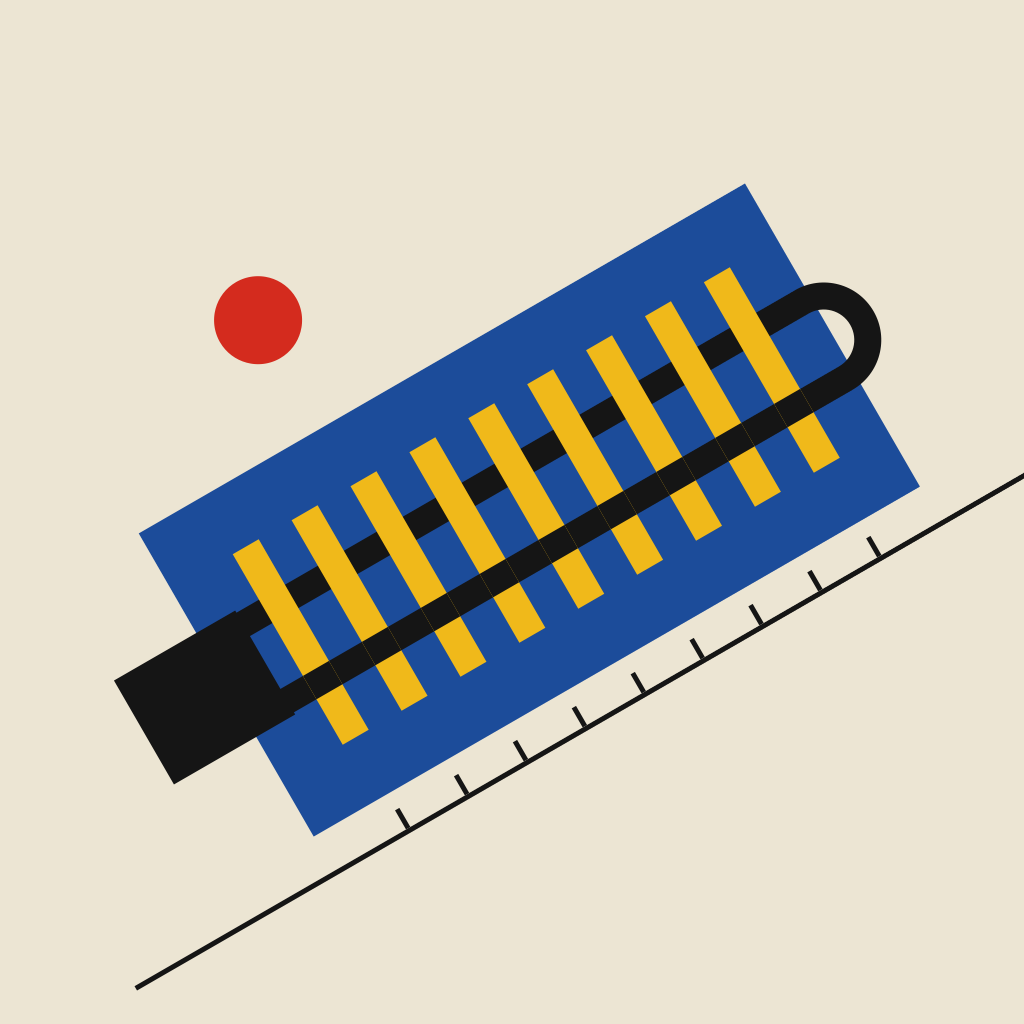
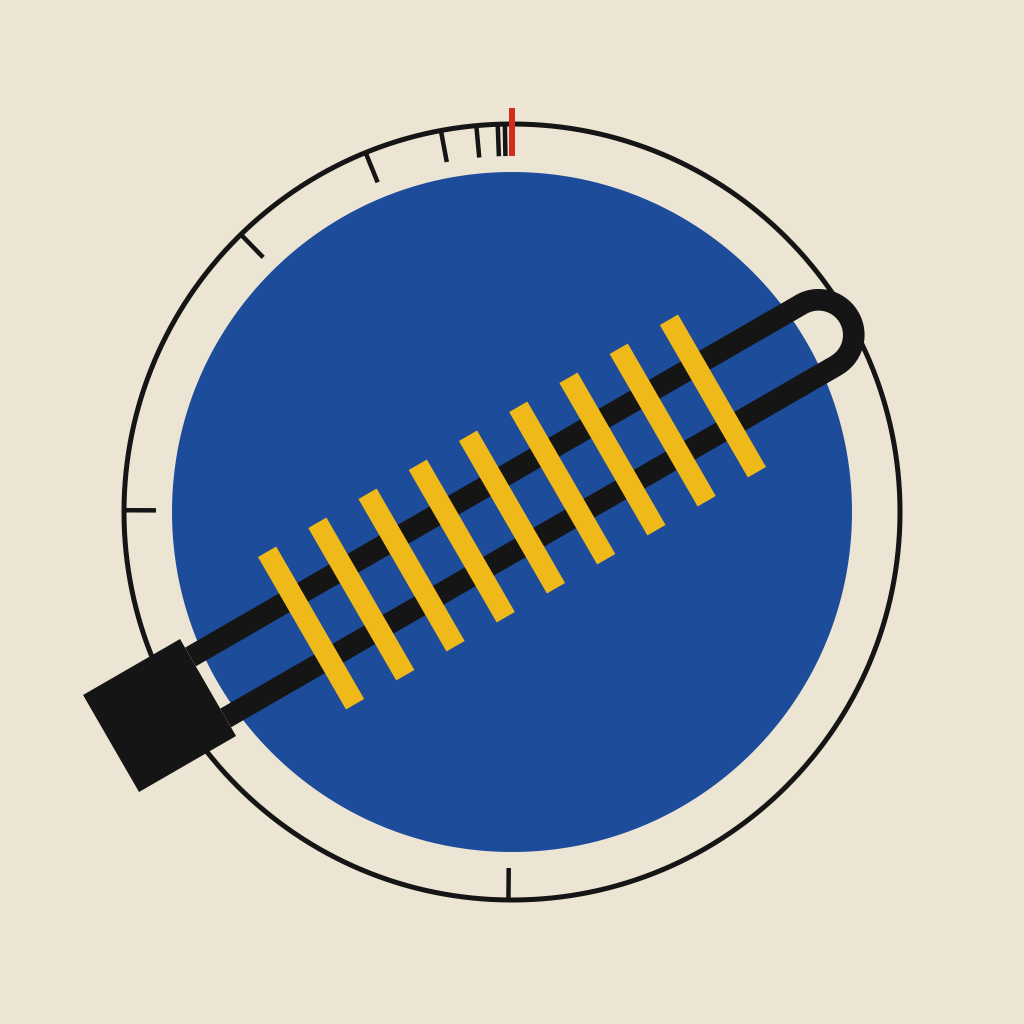
Achievement pictures: The Shortest Way and All Nine Back On, designed from zero
The Shortest Way is now the measure (nine rings, each as wide as its ring's moves, in a yellow wedge) and All Nine
Back On the full circle (a blue disc in a ruled circle, the nine rings on the sword as yellow bars), as the user
chose them. Their drawing comes in as it was designed, beside Bauhaus.swift, and the canvas gets back the helpers it
needs. The command's files match the chosen PNGs byte for byte.

diff --git a/StoreTools/Sources/AchievementPictures/ShortestWayAndBackOn.swift b/StoreTools/Sources/AchievementPictures/ShortestWayAndBackOn.swift
@@ -1,0 +1,176 @@
+import CoreGraphics
+import Foundation
+
+// The Shortest Way and All Nine Back On, designed from zero in the art of the Bauhaus and Constructivism, after the
+// two pictures that stay (All Nine Off and The Far End, in Bauhaus.swift): their paper, their colours, the way the
+// sword is drawn and its 30 degree rise. Drawn on the canvas itself, along an axis, not in Bauhaus.swift's frame.
+
+// MARK: - What the two pictures share
+
+/// A straight axis on the canvas: `t` runs along it and `s` across it. For an axis that rises to the right,
+/// a positive `s` is below it.
+struct Axis {
+    var origin: CGPoint
+    var degrees: CGFloat
+    var radians: CGFloat { degrees * .pi / 180 }
+    var u: CGPoint { CGPoint(x: cos(radians), y: sin(radians)) }
+    var n: CGPoint { CGPoint(x: -u.y, y: u.x) }
+
+    func at(_ t: CGFloat, _ s: CGFloat = 0) -> CGPoint {
+        CGPoint(x: origin.x + u.x * t + n.x * s, y: origin.y + u.y * t + n.y * s)
+    }
+
+    /// Everything before the line across the axis at `t`, or everything after it.
+    func side(of t: CGFloat, after: Bool) -> CGPath {
+        let far: CGFloat = after ? 3000 : -3000
+        return polygon([at(t, -3000), at(t + far, -3000), at(t + far, 3000), at(t, 3000)])
+    }
+
+    /// A square of this side that stands on the axis, from `t` on.
+    func square(from t: CGFloat, side: CGFloat) -> CGPath {
+        polygon([at(t, -side / 2), at(t + side, -side / 2), at(t + side, side / 2), at(t, side / 2)])
+    }
+
+    /// The line that runs along the axis at distance `d` below it up to `t`, turns round the point at `t`, and
+    /// runs back above it: the shape of the sword's own loop, `d` away from the axis.
+    func turn(at t: CGFloat, distance d: CGFloat, from start: CGFloat) -> CGPath {
+        let p = CGMutablePath()
+        p.move(to: at(start, d))
+        p.addLine(to: at(t, d))
+        p.addArc(center: at(t), radius: d, startAngle: radians + .pi / 2, endAngle: radians - .pi / 2, clockwise: true)
+        p.addLine(to: at(start, -d))
+        return p
+    }
+}
+
+/// The family's direction: rising to the right at 30 degrees, here through the middle of the picture.
+let diagonal = Axis(origin: middle, degrees: -30)
+
+/// The sword as the family draws it: a long narrow loop of one black line, and a square handle.
+/// `tip` is the centre of the round end on the axis and `loop` the length of the straight part. At `scale` 1 it has
+/// the family's size: a line of 27, 88 between the two sides of the loop, a handle of 140.
+struct Sword {
+    var axis: Axis
+    var tip: CGFloat
+    var loop: CGFloat
+    var scale: CGFloat = 1
+
+    var line: CGFloat { 27 * scale }
+    var rail: CGFloat { 44 * scale }
+    var grip: CGFloat { 140 * scale }
+    /// From the axis to the outside of the loop.
+    var halfWidth: CGFloat { rail + line / 2 }
+    var tipEnd: CGFloat { tip + halfWidth }
+    var loopStart: CGFloat { tip - loop }
+    var handleEnd: CGFloat { tip - loop - grip }
+
+    func draw(_ c: CGContext) {
+        let path = axis.turn(at: tip, distance: rail, from: loopStart)
+        c.fill(outline(path, width: line, cap: .butt, join: .miter), ink)
+        c.fill(
+            polygon([
+                axis.at(handleEnd, -grip / 2), axis.at(loopStart, -grip / 2), axis.at(loopStart, grip / 2),
+                axis.at(handleEnd, grip / 2),
+            ]), ink)
+    }
+}
+
+/// A flat ring whose middle is on the axis at `t`.
+struct Ring {
+    var t: CGFloat
+    var radius: CGFloat
+    var width: CGFloat
+    var color: CGColor
+
+    func shape(on axis: Axis) -> CGPath {
+        width >= radius ? circle(axis.at(t), radius) : annulus(axis.at(t), outer: radius, inner: radius - width)
+    }
+}
+
+/// Rings with the sword through them: the half of each ring towards the handle passes behind the sword, and the
+/// half towards the tip in front of it. `between` is drawn where the sword is, between the two halves.
+func thread(_ c: CGContext, _ rings: [Ring], on axis: Axis, between: () -> Void) {
+    for r in rings {
+        c.clipped(to: axis.side(of: r.t + 0.75, after: false)) { c.fill(r.shape(on: axis), r.color) }
+    }
+    between()
+    for r in rings {
+        c.clipped(to: axis.side(of: r.t - 0.75, after: true)) { c.fill(r.shape(on: axis), r.color) }
+    }
+}
+
+// MARK: - The Shortest Way
+
+/// The ring each of the 341 moves of the shortest way moves: 0 for the ring that moves every other time, up to 8
+/// for the ring that moves once. The puzzle's arrangements lie on one path; every ring on is 341 steps along it and
+/// every ring off is step 0, and the move that leaves step b is of the ring "how many times 2 divides b".
+let shortestWay: [Int] = (0..<341).map { (341 - $0).trailingZeroBitCount }
+
+/// How many of the 341 moves each ring makes: 171, 85, 43, 21, 11, 5, 3, 1, 1.
+let shares: [Int] = (0..<9).map { ring in shortestWay.filter { $0 == ring }.count }
+
+/// A, the measure. Nine rings in a row, each as wide as the number of moves it makes: together they are 341 wide,
+/// the length of the way and not one more. Each is about half the one before, so the row runs between two straight
+/// lines into a point. The sword starts inside the first two rings, and the way leaves it as one straight red line.
+func shortestWayMeasure(_ c: CGContext) {
+    c.background(paper)
+    let ax = diagonal
+    let start: CGFloat = -318
+    let end: CGFloat = 396
+    let unit = (end - start) / 341
+
+    // Rings that halve for ever would end at 342: there the two lines that touch them all meet.
+    let apex = start + 342 * unit
+    let spread = tan(asin(1.0 / 3))
+    c.fill(polygon([ax.at(apex), ax.at(apex - 1400, -1400 * spread), ax.at(apex - 1400, 1400 * spread)]), yellow)
+
+    var rings: [Ring] = []
+    var t = start
+    for share in shares {
+        let d = CGFloat(share) * unit
+        rings.append(Ring(t: t + d / 2, radius: d / 2, width: max(d * 0.085, 2.6), color: ink))
+        t += d
+    }
+
+    // The sword's round end reaches the middle of the second ring.
+    var sword = Sword(axis: ax, tip: 0, loop: 0, scale: 0.8)
+    sword.tip = rings[1].t - sword.halfWidth
+    sword.loop = sword.tip - (start - 22)
+
+    // The way: a line from where the loop begins that narrows to the point.
+    c.fill(polygon([ax.at(sword.loopStart, -6.5), ax.at(apex + 4, -2), ax.at(apex + 4, 2), ax.at(sword.loopStart, 6.5)]), red)
+    thread(c, rings, on: ax) { sword.draw(c) }
+    // The family's blue square, here the point the way ends on.
+    c.fill(ax.square(from: apex + 2, side: 60), blue)
+}
+
+// MARK: - All Nine Back On
+
+/// C, the full circle. A way that comes back to where it began is a circle. The thin ruled line of The Far End is
+/// closed round a blue disc; its nine marks are spaced by the number of moves each ring makes, so one whole turn is
+/// the 341 moves of the way back, and the red mark at the top is where it begins and ends. The nine rings sit on the
+/// sword inside the circle, seen edge on.
+func backOnFullCircle(_ c: CGContext) {
+    c.background(paper)
+    let ax = diagonal
+    let sword = Sword(axis: ax, tip: 354, loop: 705, scale: 0.8)
+    c.fill(circle(middle, 340), blue)
+
+    let ruled: CGFloat = 388
+    c.stroke(circle(middle, ruled), ink, width: 5)
+    // Clockwise from the top: half the turn for the ring that moves 171 times, a quarter for the next, and so on.
+    var turned: CGFloat = 0
+    for (ring, share) in shares.enumerated() {
+        turned += CGFloat(share) / 341 * 360
+        let closing = ring == 8
+        c.stroke(
+            line(polar(middle, ruled - 32, 270 + turned), polar(middle, ruled + (closing ? 16 : 0), 270 + turned)),
+            closing ? red : ink, width: closing ? 6 : 4.5, cap: .butt)
+    }
+
+    sword.draw(c)
+    for k in 0..<9 {
+        let t = 232 - 58 * CGFloat(k)
+        c.stroke(line(ax.at(t, -88), ax.at(t, 88)), yellow, width: 21, cap: .butt)
+    }
+}

diff --git a/StoreTools/Sources/AchievementPictures/Bauhaus.swift b/StoreTools/Sources/AchievementPictures/Bauhaus.swift
@@ -3,8 +3,10 @@ import Foundation
 
 // Bauhaus and Constructivism: the sword as a rising diagonal bar, the rings as upright loops wrapped round it, a few
 // strong colours with black on off-white paper, each picture built like a poster around one great plane of colour.
+// All Nine Off and The Far End are drawn here; The Shortest Way and All Nine Back On, designed later in the same
+// language, in ShortestWayAndBackOn.swift.
 //
-// Every picture is drawn in the sword's own frame: u runs along the sword from the grip towards the tip, v across it
+// The two pictures here are drawn in the sword's own frame: u runs along the sword from the grip towards the tip, v across it
 // (positive below the sword).
 
 // MARK: Palette
@@ -73,7 +75,7 @@ extension CGContext {
 
 // MARK: The ruler
 
-/// A hairline parallel to the sword, with a tick under each ring's place: the measure every picture stands on.
+/// A hairline parallel to the sword, with a tick under each ring's place: the measure The Far End stands on.
 let rulerV: CGFloat = 215
 
 extension CGContext {
@@ -93,8 +95,8 @@ func draw(_ picture: AchievementPicture, in c: CGContext) {
     c.background(paper)
     switch picture {
     case .allNineOff: allNineOff(c)
-    case .shortestWay: shortestWay(c)
-    case .allNineBackOn: allNineBackOn(c)
+    case .shortestWay: shortestWayMeasure(c)
+    case .allNineBackOn: backOnFullCircle(c)
     case .farEnd: farEnd(c)
     }
 }
@@ -112,39 +114,6 @@ func allNineOff(_ c: CGContext) {
             let centre = pt(ringU(n) - 34, rulerV - r - 6)
             c.fill(annulus(centre, outer: r + 7, inner: r - 7), ink)
         }
-    }
-}
-
-/// The paper cut along the sword, black above and light below; a red wedge drives straight along it, through the tip.
-func shortestWay(_ c: CGContext) {
-    let above = rect(-1400, -1400, 2800, 1400)
-    let below = rect(-1400, 0, 2800, 1400)
-    c.transformed(frame) {
-        c.fill(above, ink)
-        c.ruler()
-        // A disc at the tip, turned inside out by the cut.
-        let disc = circle(pt(tipCentre + 10, 0), 132)
-        c.clipped(to: above) { c.fill(disc, paper) }
-        c.clipped(to: below) { c.fill(disc, ink) }
-        c.clipped(to: above) { c.fill(wires(), ink) }
-        c.clipped(to: below) { c.fill(wires(), paper) }
-        c.clipped(outside: disc) {
-            c.clipped(to: above) { c.fill(wires(), paper) }
-            c.clipped(to: below) { c.fill(wires(), ink) }
-        }
-        let wedge = polygon([pt(gripEnd, -railHalf + 8), pt(tipCentre + 260, 0), pt(gripEnd, railHalf - 8)])
-        c.fill(wedge, red)
-        c.fill(grip(), red)
-    }
-}
-
-/// A blue band behind, a red dot above; all nine rings back on the sword.
-func allNineBackOn(_ c: CGContext) {
-    c.transformed(frame) {
-        c.fill(rect(-330, -175, 700, 350), blue)
-        c.fill(circle(pt(-120, -300), 44), red)
-        c.ruler()
-        c.sword(rings: Array(1...9), ringColor: yellow)
     }
 }
 

diff --git a/StoreTools/Sources/AchievementPictures/Canvas.swift b/StoreTools/Sources/AchievementPictures/Canvas.swift
@@ -6,9 +6,11 @@ import UniformTypeIdentifiers
 // The canvas the pictures are drawn on, and the few helpers they use.
 //
 // The canvas is 1024 × 1024, opaque, sRGB. Its origin is the top left corner and y grows downwards, as in SVG.
+// Angles are in degrees: 0 points right, 90 down, 180 left, 270 up.
 // CoreGraphics itself is all there as well: CGMutablePath, CGAffineTransform, and anything on CGContext.
 
 let side: CGFloat = 1024
+let middle = CGPoint(x: 512, y: 512)
 
 // MARK: Colours
 
@@ -23,6 +25,12 @@ func rgb(_ hex: UInt32, _ alpha: CGFloat = 1) -> CGColor {
 
 func pt(_ x: CGFloat, _ y: CGFloat) -> CGPoint { CGPoint(x: x, y: y) }
 
+/// The point at `radius` from `center` in the direction `degrees`.
+func polar(_ center: CGPoint, _ radius: CGFloat, _ degrees: CGFloat) -> CGPoint {
+    let a = degrees * .pi / 180
+    return CGPoint(x: center.x + radius * cos(a), y: center.y + radius * sin(a))
+}
+
 // MARK: Paths
 
 func circle(_ center: CGPoint, _ radius: CGFloat) -> CGPath {
@@ -32,6 +40,13 @@ func circle(_ center: CGPoint, _ radius: CGFloat) -> CGPath {
 func rect(_ x: CGFloat, _ y: CGFloat, _ width: CGFloat, _ height: CGFloat, corner: CGFloat = 0) -> CGPath {
     let r = min(corner, width / 2, height / 2)
     return CGPath(roundedRect: CGRect(x: x, y: y, width: width, height: height), cornerWidth: r, cornerHeight: r, transform: nil)
+}
+
+/// An open line through the points.
+func line(_ points: CGPoint...) -> CGPath {
+    let path = CGMutablePath()
+    path.addLines(between: points)
+    return path
 }
 
 /// A closed shape through the points.
@@ -61,6 +76,18 @@ extension CGContext {
         setFillColor(color)
         addPath(path)
         fillPath(using: evenOdd ? .evenOdd : .winding)
+        restoreGState()
+    }
+
+    func stroke(_ path: CGPath, _ color: CGColor, width: CGFloat, cap: CGLineCap = .round, join: CGLineJoin = .round, dash: [CGFloat] = []) {
+        saveGState()
+        setStrokeColor(color)
+        setLineWidth(width)
+        setLineCap(cap)
+        setLineJoin(join)
+        if !dash.isEmpty { setLineDash(phase: 0, lengths: dash) }
+        addPath(path)
+        strokePath()
         restoreGState()
     }
 

diff --git a/StoreTools/Sources/AchievementPictures/AchievementPicture.swift b/StoreTools/Sources/AchievementPictures/AchievementPicture.swift
@@ -1,9 +1,9 @@
 import CoreGraphics
 import Foundation
 
-/// The pictures of the app's four Game Center achievements, in the Bauhaus style chosen on 18 November: drawn in
-/// `Bauhaus.swift`, on the canvas in `Canvas.swift`, and made again with
-/// `swift run --package-path StoreTools achievement-pictures`.
+/// The pictures of the app's four Game Center achievements, in the Bauhaus style chosen on 18 November: All Nine Off
+/// and The Far End drawn in `Bauhaus.swift`, The Shortest Way and All Nine Back On in `ShortestWayAndBackOn.swift`,
+/// all on the canvas in `Canvas.swift`, and made again with `swift run --package-path StoreTools achievement-pictures`.
 ///
 /// App Store Connect asks for a `.png` or `.jpeg` of 1024 × 1024 pixels, at least 72 ppi, RGB. These are sRGB PNGs with
 /// no alpha channel, marked 72 ppi.

diff --git a/docs/game-center.md b/docs/game-center.md
@@ -85,10 +85,20 @@ Xcode's editor, not by hand.
 4. **The pictures** are in `StoreTools/AchievementPictures/`, one for each achievement, named by its identifier:
    `all_nine_off.png`, `shortest_way.png`, `all_nine_back_on.png` and `far_end.png`. Upload each as its achievement's
    **Image**. They are what App Store Connect asks for: 1024 × 1024 pixels, PNG, RGB, 72 ppi, with no transparency.
-   They are in the Bauhaus style: the sword is one black diagonal, a ring on it a bar woven through its two wires, a
-   ring off it a circle, and one great plane of colour sets each picture apart. They are drawn by
-   `swift run --package-path StoreTools achievement-pictures` (the drawing is
-   `StoreTools/Sources/AchievementPictures/Bauhaus.swift`), so a change is made there and they are drawn again.
+   They are in the Bauhaus style: paper, black, red, yellow and blue, flat shapes, the sword rising at 30 degrees,
+   and one great form of colour that sets each picture apart.
+   - *All Nine Off*: a red disc, the sword empty across it, the nine rings fallen flat on a line beneath.
+   - *The Shortest Way*: nine rings in a row, each as wide as the number of moves its ring makes on the shortest way
+     (171, 85, 43, 21, 11, 5, 3, 1 and 1: 341 in all), in a yellow wedge; a red line, the way, runs from the sword to
+     the wedge's point, which ends on a blue square.
+   - *All Nine Back On*: a blue disc in a thin ruled circle whose nine marks share the turn out by those same counts,
+     a red mark where it begins and ends; the nine rings back on the sword as yellow bars.
+   - *The Far End*: a yellow disc, and ring 9 alone on the sword as a red bar.
+
+   They are drawn by `swift run --package-path StoreTools achievement-pictures`, so a change is made in the drawing
+   and they are drawn again. All Nine Off and The Far End are drawn in
+   `StoreTools/Sources/AchievementPictures/Bauhaus.swift`, The Shortest Way and All Nine Back On in
+   `ShortestWayAndBackOn.swift` beside it.
 5. **Turn Game Center on for the version.** In **Apps**, choose Nine Rings, then the version that will ship this, in
    the sidebar. Scroll down, tick **Game Center**, and add the four achievements to the version. They are reviewed
    with it, and players see them only once they are approved.

diff --git a/StoreTools/README.md b/StoreTools/README.md
@@ -23,7 +23,7 @@ UI tests on each simulator (`--devices iphone-6.3,ipad-13,…`); see `StoreShots
 | Captions | `Captions.xcstrings` | The captions' texts, a String Catalog for the translators, outside the app so it does not ship |
 | Composer | `Sources/StoreComposer`, `Sources/store-compose` | Draws each picture (background, caption, capture, optional bezel), removes transparency, refuses wrong sizes, checks the result |
 | The script | `scripts/store-assets.sh` | Runs it all |
-| Achievement pictures | `Sources/AchievementPictures`, `Sources/achievement-pictures`, `AchievementPictures/` | Draws the four Game Center achievement pictures: `swift run --package-path StoreTools achievement-pictures` |
+| Achievement pictures | `Sources/AchievementPictures`, `Sources/achievement-pictures`, `AchievementPictures/` | Draws the four Game Center achievement pictures in the Bauhaus style, All Nine Off and The Far End in `Bauhaus.swift`, The Shortest Way and All Nine Back On in `ShortestWayAndBackOn.swift`: `swift run --package-path StoreTools achievement-pictures` |
 
 Nothing here is part of the app: the Xcode project does not refer to this package. The tests check the composer, the
 app's own reading of the launch arguments (its files are linked into `Sources/StoreLaunch`), and that every moment is a
